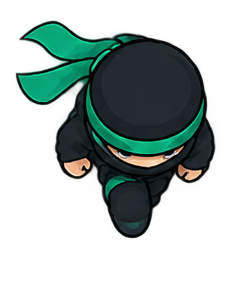
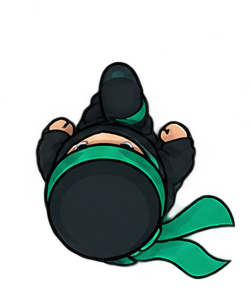
fixed the animation of the ninja

diff --git a/client/src/features/games/MemoryMatch/MemoryMatch.tsx b/client/src/features/games/MemoryMatch/MemoryMatch.tsx
@@ -89,7 +89,7 @@ const { width: SCREEN_WIDTH, height: SCREEN_HEIGHT } = Dimensions.get('window');
 const LANE_COUNT = 3;
 const LANE_WIDTH = SCREEN_WIDTH / LANE_COUNT;
 
-const PLAYER_SIZE = 50;
+const PLAYER_SIZE = 80;
 const PLAYER_BOTTOM_OFFSET = 100; // distance from bottom of the game area
 
 const OBSTACLE_WIDTH = 50;
@@ -98,10 +98,12 @@ const OBSTACLE_HEIGHT = 50;
 // Frames for the ninja while moving — swapped through in sequence to
 // produce a running animation for the player sprite.
 const NINJA_RUN_FRAMES = [
-  require('../../assets/game/ninja/ninja-run-1.png'),
-  require('../../assets/game/ninja/ninja-run-2.png'),
-  require('../../assets/game/ninja/ninja-run-3.png'),
-  require('../../assets/game/ninja/ninja-run-4.png'),
+  require('../../../../assets/images/ninja-run-1.png'),
+  require('../../../../assets/images/ninja-run-2.png'),
+  require('../../../../assets/images/ninja-run-3.png'),
+  require('../../../../assets/images/ninja-run-4.png'),
+  require('../../../../assets/images/ninja-run-5.png'),
+  require('../../../../assets/images/ninja-run-6.png'),
 ];
 const NINJA_FRAME_INTERVAL_MS = 100; // how fast the run cycle animates
 
